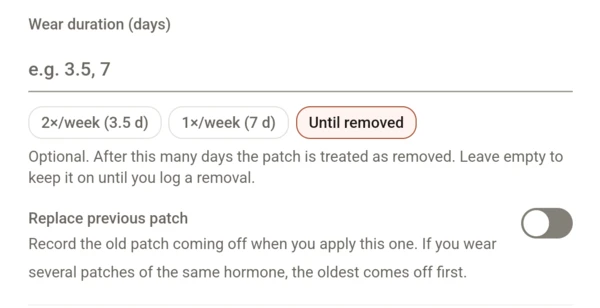
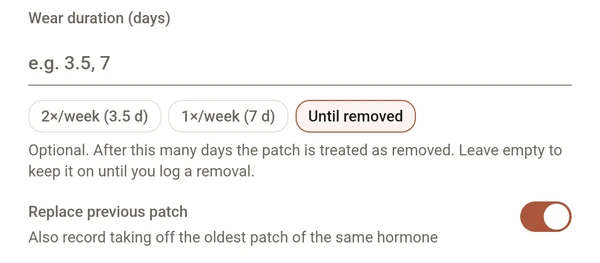
Handle patch changes entered at the same time

diff --git a/src/i18n/translations.ts b/src/i18n/translations.ts
@@ -552,10 +552,8 @@ export const TRANSLATIONS_BASE = {
         'field.patch_wear_hint': '可选。超过该天数后视为已揭下；留空则保持贴着，直到你记录一次移除。',
         'field.patch_until_removed': '手动移除',
         'patch.replace_previous': '更换上一片贴片',
-        'patch.replace_manual_hint':
-            '贴上新贴片时，同时记下揭掉旧贴片的时间。如果贴着多片同种激素的贴片，先换最早贴的那片。',
-        'patch.replace_plan_hint':
-            '在总览里点「贴了」时，同时记下揭掉旧贴片的时间。如果贴着多片同种激素的贴片，先换最早贴的那片。',
+        'patch.replace_manual_hint': '贴新贴片时，也记下揭掉同种激素里最早贴的那一片',
+        'patch.replace_plan_hint': '点「贴了」时，也记下揭掉同种激素里最早贴的那一片',
         'patch.wear.twice_week': '每周两次',
         'patch.wear.weekly': '每周一次',
         'unit.day_short': '天',
@@ -1975,10 +1973,8 @@ export const TRANSLATIONS_BASE = {
             'Optional. After this many days the patch is treated as removed. Leave empty to keep it on until you log a removal.',
         'field.patch_until_removed': 'Until removed',
         'patch.replace_previous': 'Replace previous patch',
-        'patch.replace_manual_hint':
-            'Record the old patch coming off when you apply this one. If you wear several patches of the same hormone, the oldest comes off first.',
-        'patch.replace_plan_hint':
-            'Tapping Done also records taking off the old patch at that time. If you wear several patches of the same hormone, the oldest comes off first.',
+        'patch.replace_manual_hint': 'Also record taking off the oldest patch of the same hormone',
+        'patch.replace_plan_hint': 'Done also records taking off the oldest patch of the same hormone',
         'patch.wear.twice_week': '2×/week',
         'patch.wear.weekly': '1×/week',
         'unit.day_short': 'd',
@@ -3239,10 +3235,8 @@ const ZH_TW = {
     'field.patch_wear_hint': '選填。超過該天數後視為已撕下；留空則保持貼著，直到你記錄一次移除。',
     'field.patch_until_removed': '手動移除',
     'patch.replace_previous': '更換上一片貼片',
-    'patch.replace_manual_hint':
-        '貼上新貼片時，同時記下揭掉舊貼片的時間。如果貼著多片同種激素的貼片，先換最早貼的那片。',
-    'patch.replace_plan_hint':
-        '在總覽裡點「貼了」時，同時記下揭掉舊貼片的時間。如果貼著多片同種激素的貼片，先換最早貼的那片。',
+    'patch.replace_manual_hint': '貼上新貼片時，也記下撕掉最早貼上的同種荷爾蒙貼片',
+    'patch.replace_plan_hint': '點「貼了」時，也記下撕掉最早貼上的同種荷爾蒙貼片',
     'patch.wear.twice_week': '每週兩次',
     'patch.wear.weekly': '每週一次',
     'unit.day_short': '天',
@@ -4574,10 +4568,8 @@ export const TRANSLATIONS = {
         'field.patch_wear_hint': '選填。過咗呢個日數就當撕咗；留空就會一直貼住，直到你記低一次移除。',
         'field.patch_until_removed': '手動移除',
         'patch.replace_previous': '換走之前嗰塊貼片',
-        'patch.replace_manual_hint':
-            '貼上新貼片嗰陣，同時記低揭走舊貼片嘅時間。如果貼住幾塊同種激素嘅貼片，先換最早貼嗰塊。',
-        'patch.replace_plan_hint':
-            '喺總覽撳「貼咗」嗰陣，同時記低揭走舊貼片嘅時間。如果貼住幾塊同種激素嘅貼片，先換最早貼嗰塊。',
+        'patch.replace_manual_hint': '貼新貼片嗰陣，一併記低幾時搣走最早貼嗰塊同種激素貼片',
+        'patch.replace_plan_hint': '撳「貼咗」嗰陣，一併記低幾時搣走最早貼嗰塊同種激素貼片',
         'patch.wear.twice_week': '一星期兩次',
         'patch.wear.weekly': '一星期一次',
         'unit.day_short': '日',
@@ -5387,10 +5379,9 @@ export const TRANSLATIONS = {
             '任意。この日数を過ぎると除去したものとして扱います。空欄の場合は除去を記録するまで貼付したままになります。',
         'field.patch_until_removed': '除去まで',
         'patch.replace_previous': '前のパッチを交換する',
-        'patch.replace_manual_hint':
-            '新しいパッチを貼るときに、前のパッチをはがした時刻も記録します。同じホルモンのパッチを複数貼っている場合は、最初に貼ったものから交換します。',
+        'patch.replace_manual_hint': '同じホルモンのパッチのうち、最初に貼ったものをはがした時刻も記録します',
         'patch.replace_plan_hint':
-            '概要で「貼った」をタップすると、その時刻で前のパッチをはがしたことも記録されます。同じホルモンのパッチを複数貼っている場合は、最初に貼ったものから交換します。',
+            '「貼った」をタップすると、同じホルモンのパッチのうち最初に貼ったものをはがした時刻も記録します',
         'patch.wear.twice_week': '週2回',
         'patch.wear.weekly': '週1回',
         'unit.day_short': '日',
@@ -6669,10 +6660,8 @@ export const TRANSLATIONS = {
             '선택 사항. 이 일수가 지나면 제거된 것으로 처리됩니다. 비워 두면 제거를 기록할 때까지 부착 상태로 유지됩니다.',
         'field.patch_until_removed': '제거 시까지',
         'patch.replace_previous': '이전 패치 교체',
-        'patch.replace_manual_hint':
-            '새 패치를 붙일 때 이전 패치를 뗀 시각도 함께 기록됩니다. 같은 호르몬 패치를 여러 개 붙이고 있다면 가장 먼저 붙인 패치부터 뗍니다.',
-        'patch.replace_plan_hint':
-            '개요에서 ‘완료’를 누르면 그 시각에 이전 패치를 뗀 것도 함께 기록됩니다. 같은 호르몬 패치를 여러 개 붙이고 있다면 가장 먼저 붙인 패치부터 뗍니다.',
+        'patch.replace_manual_hint': '같은 호르몬 패치 중 가장 먼저 붙인 패치를 뗀 시각도 기록합니다',
+        'patch.replace_plan_hint': '‘완료’를 누르면 같은 호르몬 패치 중 가장 먼저 붙인 패치를 뗀 시각도 기록합니다',
         'patch.wear.twice_week': '주 2회',
         'patch.wear.weekly': '주 1회',
         'unit.day_short': '일',
@@ -7884,10 +7873,9 @@ export const TRANSLATIONS = {
             'İsteğe bağlı. Bu kadar gün sonra yama çıkarılmış sayılır. Boş bırakırsanız bir çıkarma kaydedene kadar takılı kalır.',
         'field.patch_until_removed': 'Çıkarılana kadar',
         'patch.replace_previous': 'Önceki bandı değiştir',
-        'patch.replace_manual_hint':
-            'Yeni bandı taktığınızda eski bandın çıkarıldığı saat de kaydedilir. Aynı hormonlu birden fazla bant takılıysa en önce takılan bant çıkar.',
+        'patch.replace_manual_hint': 'Aynı hormonu içeren en eski bandın çıkarıldığı saati de kaydet',
         'patch.replace_plan_hint':
-            'Genel bakışta "Tamam"a dokunmak da eski bandın o anda çıkarıldığını kaydeder. Aynı hormonlu birden fazla bant takılıysa en önce takılan bant çıkar.',
+            '“Tamam”a dokunduğunuzda aynı hormonu içeren en eski bandın çıkarıldığı saat de kaydedilir',
         'patch.wear.twice_week': 'Haftada 2',
         'patch.wear.weekly': 'Haftada 1',
         'unit.day_short': 'g',

diff --git a/src/domain/shared/patch.ts b/src/domain/shared/patch.ts
@@ -36,8 +36,9 @@ function matchPatches(
     const applications = new Map<DoseEvent, DoseEvent>();
     const proposed = new Set(requests.map(request => request.removal));
     const recordedApplies = recorded.filter(e => e.route === Route.patchApply);
+    const newApplications = new Set(requests.map(request => request.application));
     const applies = recordedApplies
-        .concat(requests.map(request => request.application))
+        .concat([...newApplications])
         .sort(
             (a, b) =>
                 a.timeH - b.timeH ||
@@ -100,21 +101,23 @@ function matchPatches(
                 target &&
                 hormone &&
                 _patchHormone(target) === hormone &&
-                target.timeH < removal.timeH &&
+                target.timeH <= removal.timeH &&
                 !times.has(target)
             )
                 matched = target;
         } else {
-            while (next < applies.length && applies[next].timeH < removal.timeH) open.push(applies[next++]);
+            while (next < applies.length && applies[next].timeH <= removal.timeH) open.push(applies[next++]);
             open = open.filter(a => {
                 const wear = _plannedWearH(a);
                 return !times.has(a) && (wear === null || a.timeH + wear + PATCH_REMOVAL_GRACE_H >= removal.timeH);
             });
-            // A person explicitly replacing a patch can take it off within the first hour.
-            // Keep the original one-hour inference rule for an unlinked manual removal.
+            // At minute precision a change may share the old patch's time. Only a previously
+            // saved application can be that old patch. Unlinked manual removals still require one hour.
             const fits = (a: DoseEvent) =>
                 (hormone === null || _patchHormone(a) === hormone) &&
-                (replacing || a.timeH <= removal.timeH - PATCH_MIN_WEAR_H);
+                (replacing
+                    ? a.timeH < removal.timeH || !newApplications.has(a)
+                    : a.timeH <= removal.timeH - PATCH_MIN_WEAR_H);
             matched = open.find(fits);
             if (!matched) {
                 // Outside the normal grace window only the newest prior application can qualify for late removal.
@@ -212,7 +215,7 @@ export function patchEntriesWithReplacements(
  */
 export function resolvePatchWearH(event: DoseEvent, allEvents: DoseEvent[]): number {
     const removeAt = patchRemovalTimes(allEvents).get(event);
-    if (removeAt !== undefined && removeAt > event.timeH) return removeAt - event.timeH;
+    if (removeAt !== undefined) return removeAt - event.timeH;
     const planned = event.extras?.[ExtraKey.patchWearH];
     if (typeof planned === 'number' && Number.isFinite(planned) && planned > 0) return planned;
     return Number.MAX_VALUE;

diff --git a/tests/patchReplacement.test.ts b/tests/patchReplacement.test.ts
@@ -125,21 +125,21 @@ describe('patchRemovalPairs pairs a removal with the patch it closed', () => {
         expect(patchRemovalPairs([a1, r]).get(r)).toBe(a1);
     });
 
-    it('drops an explicit link to a missing, foreign-hormone, non-earlier, or already-closed target', () => {
+    it('drops an explicit link to a missing, foreign-hormone, future, or already-closed target', () => {
         const a1 = apply(Ester.E2, T0, RATE, 'a1');
         const a2 = apply(Ester.E2, T0 + 24, RATE, 'a2');
         const tApply = apply(Ester.T, T0, RATE, 't1');
         const missing = removal(Ester.E2, T0 + 72, 'gone', 'r-missing');
         const foreign = removal(Ester.E2, T0 + 72, 't1', 'r-foreign');
-        const sameMoment = removal(Ester.E2, T0, 'a1', 'r-same-moment');
+        const future = removal(Ester.E2, T0 - 1, 'a1', 'r-before-apply');
         const retarget = removal(Ester.E2, T0 + 48, 'a1', 'r-retarget');
-        const events = [a1, a2, tApply, retarget, missing, foreign, sameMoment];
+        const events = [a1, a2, tApply, retarget, missing, foreign, future];
         const pairs = patchRemovalPairs(events);
         expect(pairs.get(retarget)).toBe(a1);
         // A dead link never redirects the removal onto another patch.
         expect(pairs.has(missing)).toBe(false);
         expect(pairs.has(foreign)).toBe(false);
-        expect(pairs.has(sameMoment)).toBe(false);
+        expect(pairs.has(future)).toBe(false);
         expect(patchRemovalTimes(events).has(a2)).toBe(false);
     });
 
@@ -332,6 +332,17 @@ describe('patchEntriesWithReplacements generates the records for an opted-in sav
             second,
         ]);
         expect([...one, ...two]).toEqual(out);
+    });
+
+    it('can replace an already saved patch at the same time without ending another new patch in the same batch', () => {
+        const prior = apply(Ester.E2, T0, RATE, 'old');
+        const first = apply(Ester.E2, T0, RATE, 'first');
+        const second = apply(Ester.E2, T0, RATE, 'second');
+        const added = patchEntriesWithReplacements([prior], [first, second], ['off1', 'off2']);
+        expect(added).toEqual([expect.objectContaining({ patchApplicationId: prior.id }), first, second]);
+        expect(resolvePatchWearH(prior, [prior, ...added])).toBe(0);
+        expect(patchRemovalTimes([prior, ...added]).has(first)).toBe(false);
+        expect(patchEntriesWithReplacements([], [first, second], ['off1', 'off2'])).toEqual([first, second]);
     });
 
     it('closes nothing when no prior patch is eligible', () => {

diff --git a/src/i18n/ru.ts b/src/i18n/ru.ts
@@ -555,10 +555,8 @@ export const RU = {
         'Необязательно. После стольких дней пластырь считается снятым. Оставьте пустым, чтобы он считался наклеенным, пока вы не отметите снятие.',
     'field.patch_until_removed': 'Пока не снят',
     'patch.replace_previous': 'Заменить предыдущий пластырь',
-    'patch.replace_manual_hint':
-        'Когда вы наклеиваете новый пластырь, одновременно записывается время снятия старого. Если наклеено несколько пластырей с одним гормоном, первым снимают самый старый.',
-    'patch.replace_plan_hint':
-        'Нажатие «Готово» на странице «Обзор» также записывает снятие старого пластыря в это время. Если наклеено несколько пластырей с одним гормоном, первым снимают самый старый.',
+    'patch.replace_manual_hint': 'Записать также снятие самого старого пластыря с тем же гормоном',
+    'patch.replace_plan_hint': 'Кнопка «Готово» также записывает снятие самого старого пластыря с тем же гормоном',
     'patch.wear.twice_week': '2×/нед.',
     'patch.wear.weekly': '1×/нед.',
     'unit.day_short': 'дн.',

diff --git a/src/i18n/uk.ts b/src/i18n/uk.ts
@@ -553,10 +553,8 @@ export const UK = {
         'Необов’язково. Після стількох днів пластир вважається знятим. Залиште порожнім, щоб він вважався наклеєним, доки ви не позначите зняття.',
     'field.patch_until_removed': 'Доки не знято',
     'patch.replace_previous': 'Замінити попередній пластир',
-    'patch.replace_manual_hint':
-        'Коли ви наклеюєте новий пластир, одночасно записується час зняття старого. Якщо наклеєно кілька пластирів з одним гормоном, першим знімають найстаріший.',
-    'patch.replace_plan_hint':
-        'Натискання «Готово» на сторінці «Огляд» також записує зняття старого пластиря в цей час. Якщо наклеєно кілька пластирів з одним гормоном, першим знімають найстаріший.',
+    'patch.replace_manual_hint': 'Також записати зняття найстарішого пластиру з тим самим гормоном',
+    'patch.replace_plan_hint': 'Кнопка «Готово» також записує зняття найстарішого пластиру з тим самим гормоном',
     'patch.wear.twice_week': '2×/тиж.',
     'patch.wear.weekly': '1×/тиж.',
     'unit.day_short': 'дн.',

diff --git a/tests/routes.test.ts b/tests/routes.test.ts
@@ -280,6 +280,16 @@ describe('patch', () => {
         }
     });
 
+    it('shows only the new patch when an already logged patch is replaced at the same recorded time', () => {
+        const timeH = NOW_H - 72;
+        const old = dose(Route.patchApply, Ester.E2, 0, timeH, rate(200));
+        const next = dose(Route.patchApply, Ester.E2, 0, timeH, rate(100));
+        const replacement = patchEntriesWithReplacements([old], [next], ['take-off-old']);
+        const after = runSimulation([old, ...replacement], BW)!;
+        const one = runSimulation([next], BW)!;
+        expect(E2(after, timeH + 24)).toBeCloseTo(E2(one, timeH + 24)!, 6);
+    });
+
     it('zero-order release approaches rate/k3 while worn', () => {
         const sim = runSimulation([dose(Route.patchApply, Ester.E2, 0, NOW_H - 200, rate(50))], BW)!;
         expect(relErr(E2(sim, NOW_H - 100)!, toPgMl(0.05 / 24 / 0.41))).toBeLessThan(1e-6);

diff --git a/Algorithm Explanation.md b/Algorithm Explanation.md
@@ -129,7 +129,7 @@ E2、未酯化 T 与 CPA 为 1.0。分子量取自 `EsterInfo`：E2 272.38、EB 
   2) **一阶近似（遗留）**：若未提供标称释放率（表单按剂量填写，`doseMG` 为贴片载药量），则用 `resolveParams` 内的一阶 `k1 = 0.0075 h⁻¹` 作为高载量贴片的近似。
 - 女性化模式下，表单保存的贴片事件酯别总是 E2；`k₃ = e2_kClear = 0.41 h⁻¹`。睾酮贴片见 §14。
 - **佩戴窗口 `wearH`**（`resolvePatchWearH`）：
-  1. 先为每个 `patchRemove` 找它取下的那一片（`patchRemovalTimes`）。启用「更换上一片」时，新的移除记录会用 `patchApplicationId` 指向被换下的那片贴片，以实际更换时间作为佩戴终点。如果找不到对应的贴片，就不会把这条记录算到另一片上。对于没有指定贴片的移除记录，仍按原规则推断：按时间顺序处理移除事件，配给此刻可能还贴着的贴片中贴上最早的一片。一片贴片算作可能还贴着，须同时满足：与移除事件是同一种激素（表单只在女性化模式下提供贴片，写入的移除事件都是 E2，T 的移除事件只能来自导入；记为其他药物的移除事件不限激素）；在移除前至少 1 h 贴上（`PATCH_MIN_WEAR_H`）；尚未配对；若带计划佩戴时长 `patchWearH`，其计划结束时刻不早于移除前 24 h（`PATCH_REMOVAL_GRACE_H`，容许晚记的移除）。同一时刻贴上的几片按各自内容（计划时长、剂量、释放速率、酯别、id）排序；同一时刻的几个移除事件先处理 E2 的，再处理 T 的，最后处理不限激素的（它可以取走任一激素的贴片）。因此结果与事件的输入顺序无关。
+  1. 先为每个 `patchRemove` 找它取下的那一片（`patchRemovalTimes`）。启用「更换上一片」时，新的移除记录会用 `patchApplicationId` 指向被换下的那片贴片，以实际更换时间作为佩戴终点。如果找不到对应的贴片，就不会把这条记录算到另一片上。同一分钟更换时，可明确指向一片已保存的贴片，按 0 小时计；同批同时新建的贴片不互相配对。对于没有指定贴片的移除记录，仍按原规则推断：按时间顺序处理移除事件，配给此刻可能还贴着的贴片中贴上最早的一片。一片贴片算作可能还贴着，须同时满足：与移除事件是同一种激素（表单只在女性化模式下提供贴片，写入的移除事件都是 E2，T 的移除事件只能来自导入；记为其他药物的移除事件不限激素）；在移除前至少 1 h 贴上（`PATCH_MIN_WEAR_H`）；尚未配对；若带计划佩戴时长 `patchWearH`，其计划结束时刻不早于移除前 24 h（`PATCH_REMOVAL_GRACE_H`，容许晚记的移除）。同一时刻贴上的几片按各自内容（计划时长、剂量、释放速率、酯别、id）排序；同一时刻的几个移除事件先处理 E2 的，再处理 T 的，最后处理不限激素的（它可以取走任一激素的贴片）。因此结果与事件的输入顺序无关。
   2. 没有贴片满足上述条件时，若同一激素最新一次贴上（移除前至少 1 h）的贴片尚未配对，且移除时刻不晚于它的计划结束后 240 h（`PATCH_MAX_OVERWEAR_H`），移除事件配给它：这是按计划已到期、实际一直贴到移除时刻的贴片。同一时刻贴上多片时，按第 1 步的顺序取其中第一片符合条件的。它不会越过更新的一片去配给更早的贴片。仍配不上的移除事件被忽略，不会占用下一片并使之后的配对整体错位。对带计划佩戴时长的贴片，停用或换用其他路由后很久才补记的移除也是这样，贴片按计划结束，不会在整段空档里一直按全速给药；没有计划佩戴时长的贴片在第 1 步里始终可配，无论移除记得多晚都会配给它。240 h 的依据：每周两次、0.1 mg/天的贴片按说明书速率约含 15.6 天的药量（Vivelle-Dot 说明书：1.56 mg），84 h 计划佩戴加 240 h 仍在其内。
   3. 配到移除事件的贴片，移除时刻减去贴上时刻即为 `wearH`。没有配到时，使用贴上事件上的计划佩戴时长 `extras.patchWearH`（表单里按天填写，存为小时）。
   4. 两者都没有，则视为一直佩戴。

diff --git a/docs/MOBILE.md b/docs/MOBILE.md
@@ -18,7 +18,9 @@ record taking off the previous patch at the time you enter for the new one.
 The first patch creates a single application. If several patches of the same
 hormone are eligible, the oldest comes off and the others stay on. Leave the
 switch off when adding another patch alongside them. **Batch add** applies
-your choice at each interval in the batch.
+your choice at each interval in the batch. A replacement at the same recorded
+minute can close a patch you already saved. Patches first added together at
+that timestamp stay separate.
 
 To use this every time you tap **Done**, enable the switch on the patch in
 **Medication plan**. The removal is recorded when you tap **Done**. **Undo**

diff --git a/docs/AI-GUIDE.md b/docs/AI-GUIDE.md
@@ -283,6 +283,11 @@ Rules for model changes:
 
 ### Browser storage and backups
 
+- A patch plan opts into replacement with `replacePreviousPatch: true`. Missing
+  flags keep the default off. A generated `patchRemove` carries the old
+  application's ID in `patchApplicationId`. Keep that reference through edits
+  and backups, and remap it with the event IDs when sharing. An unlinked legacy
+  removal continues to use the wear-time matching rules.
 - `useAppData` persists through namespaced `localStorage` keys. Account and mode
   namespaces are deliberate; do not collapse them.
 - `src/utils/backupState.ts` owns the stored shapes and migration of old keys.
